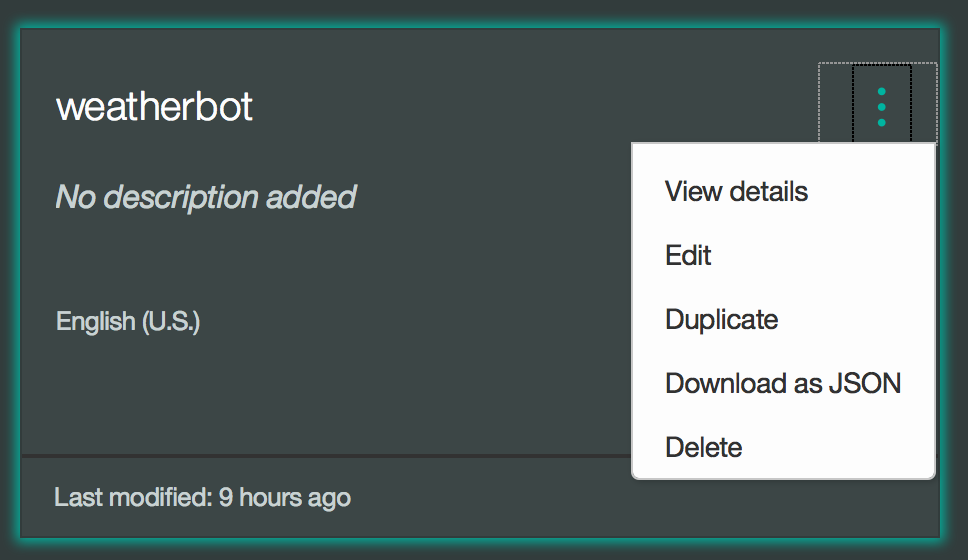
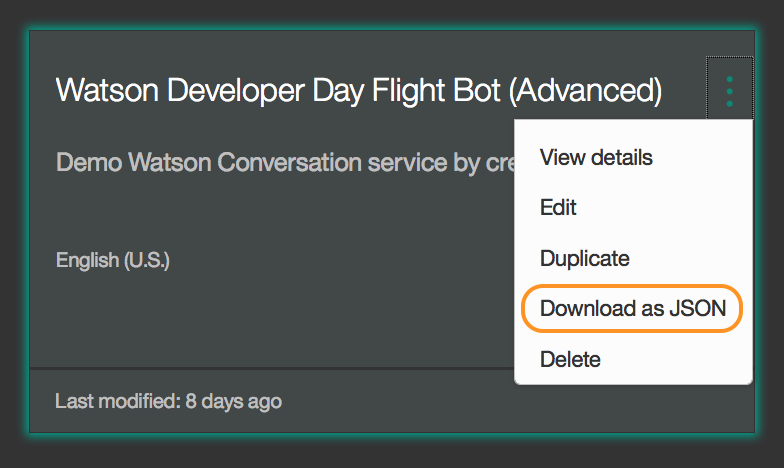
Updated README & images

Changed region(s): [[0.0, 0.0299, 1.0, 0.9872]]

diff --git a/README.md b/README.md
@@ -8,7 +8,7 @@ Botmaster is a lightweight highly extendable, highly configurable chatbot framew
 # Before you begin
 
 * Create a Bluemix account
-    * [Sign Up](https://bluemix.net/registration) in Bluemix, or use an existing account. Your account must have available space for at least 1 application (256M) and 1 service.
+    * [Sign Up](https://bluemix.net/registration) in Bluemix, or use an existing account. Your account must have available space for at least 1 application (256MB) and 1 service.
 * Make sure that you have the following prerequisites installed:
     * [The Node.js runtime](https://nodejs.org/en/) (including the npm package manager) when you plan to run your bot locally
     * [The Cloud Foundry and Bluemix](https://console.ng.bluemix.net/docs/cli/index.html#cli) command-line client is very useful.
@@ -44,24 +44,24 @@ In order for Watson Conversation to integrate with Botmaster, the following cred
 
   ![Get workspace ID](https://github.com/eciggaar/botmaster-watsonconversation-basic/blob/master/readmeimages/workspaceid.png?raw=true)
 
-5. Copy your workspace ID and make note (we will use this with service credentials to connect our Watson Conversation to Botmaster).
+5. Copy your workspace ID and make a note of this. We will use this with service credentials to connect our Watson Conversation to Botmaster.
 
 
 # Getting Started with Botmaster on Bluemix
 
-If you wish to simply deploy a Botmaster instance without having to edit any of the pre-existing code or when you do not wish to connect any additional API or additional functionality, use the steps below.
+If you wish to simply deploy a Botmaster instance without having to edit any of the pre-existing code, or when you do not wish to connect any additional API or additional functionality, use the steps below.
 
-1. In order to setup Botmaster and a webhook for messenger to link to your Watson conversation we first need to deploy a Bluemix application. So go ahead and hit the button.
+1. In order to setup Botmaster and a webhook for messenger to link to your Watson Conversation instance we first need to deploy a Bluemix application. For this, click the "Deploy to Bluemix" button below.
 <div align="center">
 <a href="https://bluemix.net/deploy?repository=https://github.com/eciggaar/botmaster-watsonconversation-basic.git" # [required]><img src="https://bluemix.net/deploy/button.png" alt="Deploy to Bluemix"></a></div>
 
 2. Log into Bluemix.
-3. Give you application a unique name. This will be the URL for the base of your webhook.
+3. Give your application a unique name. This will be the URL for the base of your webhook.
 4. Select the region, organization and space to deploy to.
 
   ![Name your application](https://github.com/eciggaar/botmaster-watsonconversation-basic/blob/master/readmeimages/bluemixname.png?raw=true)
 
-5. Once complete you will be presented with this screen, now you can click "Edit Code" if you wish to add additional functionality.
+5. Once complete you will be presented with this screen. Now you can click "Edit Code" if you wish to add additional functionality.
 
   ![Success deployment](https://github.com/eciggaar/botmaster-watsonconversation-basic/blob/master/readmeimages/success.png?raw=true)
 
@@ -78,76 +78,81 @@ If you wish to simply deploy a Botmaster instance without having to edit any of 
 
 ### Connecting to Facebook
 
-In order to connect to Facebook messenger, you must first have a Facebook Developers account and page created. If you don't already have these, follow the Steps 1-4 on the [Facebook Messenger guide](https://developers.facebook.com/docs/messenger-platform/guides/quick-start)
+1. In order to connect to Facebook messenger, you must first have a Facebook Developers account and page created. If you don't already have these, follow the Steps 1-4 on the [Facebook Messenger guide](https://developers.facebook.com/docs/messenger-platform/guides/quick-start)
 
-In step 2, where you setup your webhook, no need to code anything. In the callback URL field, paste in your application URL from Bluemix using your webhook. By default this is set to `/webhook` (e.g myapp.bluemix.net/messenger/webhook) or in code **line 36**. Note the `/messenger` part of the URL. This is part of the callback URL and is a way for the Botmaster framework to distinguish between the different messaging platforms. For Telegram and Slack the values `/telegram` and `/slack` are used respectively.
+2. In step 2 of the guide, where you setup your webhook, you don't need to code anything. In the callback URL field, paste in your application URL from Bluemix using your webhook. By default this is set to `/webhook` (e.g myapp.bluemix.net/messenger/webhook) or in code **line 36**. Note the `/messenger` part of the URL. This is part of the callback URL and is a way for the Botmaster framework to distinguish between the different messaging platforms. For Telegram and Slack the values `/telegram` and `/slack` are used respectively.
 
-Enter your verify token you created in the "Environment Variables" section and in **line 21** of your `manifest.yml`.
+3. Enter your verify token you created in the "Environment Variables" section and in **line 21** of your `manifest.yml`.
 
-Select the following fields `messages`, `messaging_postbacks`. Those fields are "update"s using Botmaster semantics.
+4. Select the following fields `messages`, `messaging_postbacks`. Those fields are "update"s using Botmaster semantics.
 
-To find your Facebook App Secret, navigate to your application's dashboard and under App Secret click "Show", enter your password if prompted and then there it is. This will be the value for `FACEBOOK_APP_SECRET`.
+5. To find your Facebook App Secret, navigate to your application's dashboard and under App Secret click "Show", enter your password if prompted and then there it is. This will be the value for `FACEBOOK_APP_SECRET`.
 
-Finally, Step 3 in the instructions above will get you the `FACEBOOK_PAGE_TOKEN`.
+6. Finally, the third step in the guide will get you the `FACEBOOK_PAGE_TOKEN`.
 
 # Getting started with Botmaster locally
 
-The best way to begin to utilize Botmaster is to run the app locally. This will allow you to customize the code if you wish to. If however you are happy with what is already included go ahead and skip to [Getting Started with Botmaster on Bluemix](#getting-started-with-botmaster-on-bluemix).
+The best way to begin utilizing Botmaster is to run the app locally. This allows you to customize the code to match your needs. If however you are happy with what is already included, go ahead and skip to [Getting Started with Botmaster on Bluemix](#getting-started-with-botmaster-on-bluemix).
 
-Begin by changing to the directory of this repository you have just cloned or downloaded.
+Otherwise, begin by changing to the directory of this repository you have just cloned or downloaded.
 
 * This can be done via command line e.g `cd ~/botmaster-watsonconversation-basic`
 
 To customize your Botmaster framework, such as adding additional actions or API services, find more detailed instructions in the [Botmaster Documentation](http://botmasterai.com/).
-
-Otherwise lets get going!
 
 ## Connecting IBM Watson Conversation & Facebook Messenger
 You will notice within the repository files there is a `manifest.yml` file. This file is where we will enter our credentials to connect your application to IBM Watson Conversation and Facebook Messenger. For this, change the following lines with your information.
 
 ![Environment Variables](https://github.com/eciggaar/botmaster-watsonconversation-basic/blob/master/readmeimages/env.png?raw=true)
 
-
 ## Logging into Bluemix
 Bluemix is where we will host our application, therefore we will make use of the Cloud Foundry command line to help us manage and push the application.
 
 1. Open a terminal or command prompt.
+
 2. Set the API endpoint of your Bluemix space.
-	* `cf api https://api.ng.bluemix.net` - US South
-	* `cf api https://api.eu-gb.bluemix.net` - UK
+
+  * `cf api https://api.ng.bluemix.net` - US South
+  * `cf api https://api.eu-gb.bluemix.net` - UK
+  <p>
 3. Login to Bluemix using:
+
 	* `cf login`
 	* Enter your email address of your Bluemix account.
 	* Hit enter.
 	* Enter your password of your Bluemix Account (*it will appear your password is not typing*)
 	* Hit enter.
+  <p>
 4. Select your space following on screen prompt.
+
 5. To confirm and check which region, org and space is currently targeted type:
+
 	* `cf target`
 
 Once you have successfully logged in and targeted Bluemix you can now push your application to Bluemix.
 
 ## Pushing to Bluemix
-Once you have finished working on your application you can now push this to Bluemix to be hosted. Using the steps above to login to Bluemix.
+Once you have finished working on your application you can now push this to Bluemix to be hosted.
 
 1. Open a terminal or command prompt.
-2. Login to Bluemix.
-2. Change directory to your repository using `cd <yourrepository>`.
-3. Use the following command to push to Bluemix `cf push`.
-	* Note: Before you use `cf push` ensure you have edited the `manifest.yml` file. You will need to update lines **13** and **14** using the unique name of your application.
+
+2. Login to Bluemix as described in [Logging into Bluemix](#logging-into-bluemix)
+
+3. Change directory to your repository using `cd <your_repository>`.
+
+4. Use the following command to push to Bluemix `cf push`.
+  * Note: Before you use `cf push` ensure you have edited the `manifest.yml` file. You will need to update lines **13** and **14** using the unique name of your application.
 
 # Exporting Your Conversation
 If you wish to export your conversation in the raw .json format to share with others or backup, this can be achieved by following:
 
 1. Log into Bluemix.
+
 2. Locate your conversation service.
-3. Within your conversation service locate you conversation instance.
 
-  ![Conversation instance](https://github.com/eciggaar/botmaster-watsonconversation-basic/blob/master/readmeimages/instance.png?raw=true)
+3. Within your conversation service locate your workspace.
 
-4. Using the menu in the top right of the conversation instance.
-
-  ![Menu icon](https://github.com/eciggaar/botmaster-watsonconversation-basic/blob/master/readmeimages/menuicon.png?raw=true)
+4. Use the menu in the top right of your workspace and then click "Download as JSON".
 
 5. Click "Download as JSON".
 
